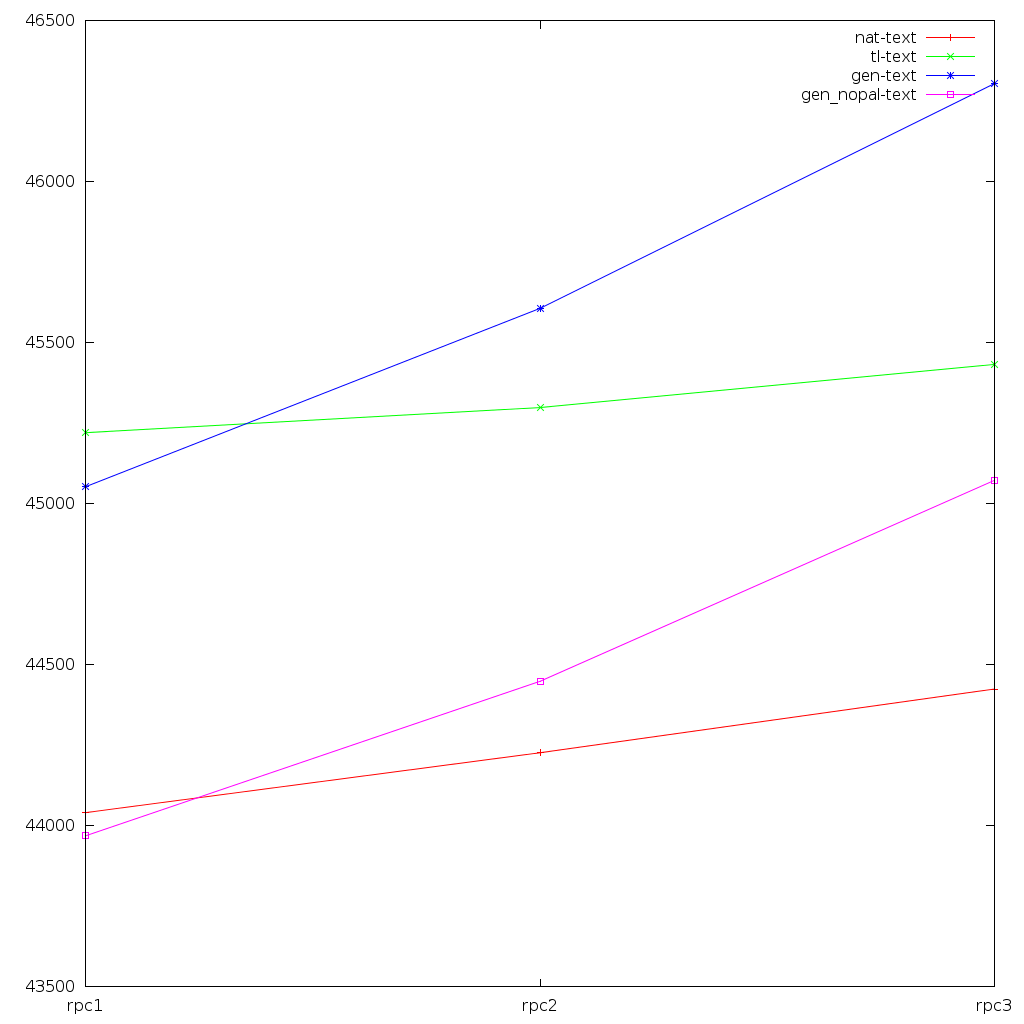
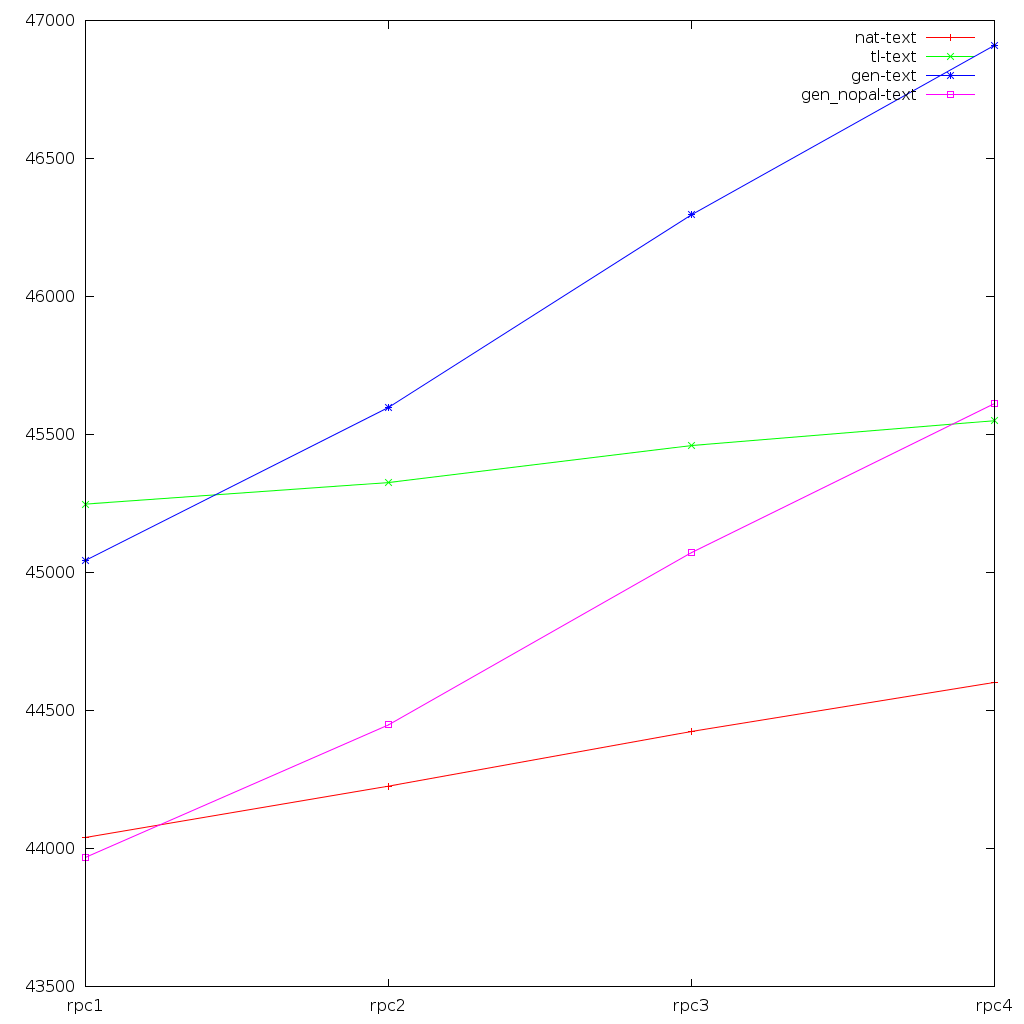
new bench results and plots

diff --git a/applications/contiki/plots/pt_text.py b/applications/contiki/plots/pt_text.py
@@ -12,14 +12,14 @@ set palette gray
 set auto x
 set auto y
 
-plot '%(infile)s' using 2:xtic(1) title columnheader(2), '' using 3 title columnheader(3), '' using 4 title columnheader(4), '' using 5 title columnheader(5)
+plot '%(infile)s' using 2:xtic(1) title columnheader(2), for [i=3:5] '' using i title columnheader(i)
 """
 
 def plot(path, values_, (apps_, variants_, measurements_)):
     measurements = ["text"]
     assert set(measurements).issubset(set(measurements_)), str(measurements_)
 
-    apps = ["rpc1", "rpc2", "rpc3"]
+    apps = ["rpc1", "rpc2", "rpc3", "rpc4"]
     assert set(apps).issubset(set(apps_)), str(apps_)
 
     variants = ["nat", "tl", "gen"]

diff --git a/applications/contiki/plots/pt_ram.py b/applications/contiki/plots/pt_ram.py
@@ -12,14 +12,14 @@ set palette gray
 set auto x
 set auto y
 
-plot '%(infile)s' using 2:xtic(1) title columnheader(2), '' using 3 title columnheader(3), '' using 4 title columnheader(4)
+plot '%(infile)s' using 2:xtic(1) title columnheader(2), for [i=3:4] '' using i title columnheader(i)
 """
 
 def plot(path, values_, (apps_, variants_, measurements_)):
     measurements = ["data", "bss", "stack"]
     assert set(measurements).issubset(set(measurements_)), str(measurements_)
 
-    apps = ["rpc1", "rpc2", "rpc3"]
+    apps = ["rpc1", "rpc2", "rpc3", "rpc4"]
     assert set(apps).issubset(set(apps_)), str(apps_)
 
     variants = ["nat", "tl", "gen"]

diff --git a/applications/contiki/compare.py b/applications/contiki/compare.py
@@ -52,7 +52,7 @@ else:
             if mo_tc != None and mo_tl != None and mo_tc.group(2) == mo_tl.group(2):
                 sleep_tc = int(mo_tc.group(1))
                 sleep_tl = int(mo_tl.group(1))
-                if abs(sleep_tc - sleep_tl) <= 5:
+                if abs(sleep_tc - sleep_tl) <= 6:
                     continue
             diff_log(log_generated, log_runtime, "generated", "runtime")
 
